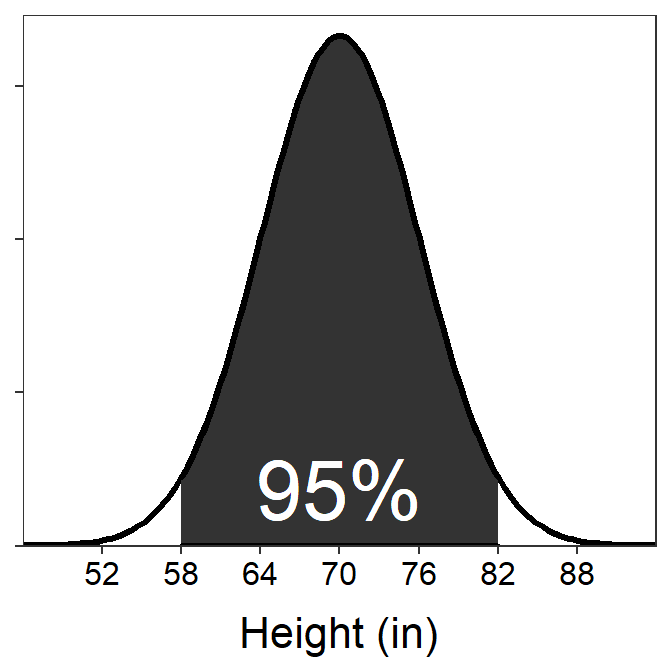
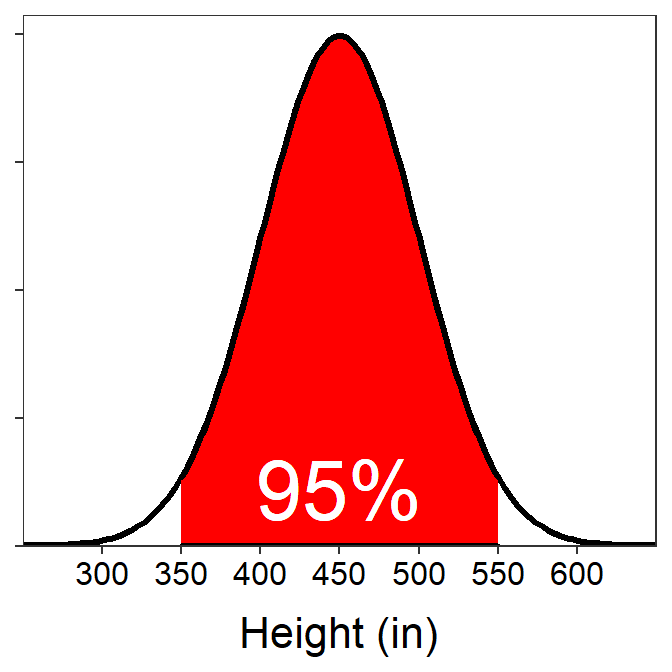
again

Changed region(s): [[0.2188, 0.0625, 0.7812, 0.875], [0.8125, 0.8125, 0.9062, 0.875], [0.125, 0.8125, 0.1875, 0.875]]

diff --git a/modules/CE/KEY_NormalDist1_CExmpl.html b/modules/CE/KEY_NormalDist1_CExmpl.html
@@ -19,7 +19,22 @@ This follows directly from the middle part of the 68-95-99.7% Rule because 350 i
 <p><img src="KEY_NormalDist1_CExmpl_files/figure-html/unnamed-chunk-4-1.png" width="336" /></p>
 </div>
 <p> </p>
-<p>{:start=“2”} 1. The percentage of wood ducks that weight more than 550 g is 2.5%.</p>
+<p>{:start=“2”}</p>
+<ol>
+<li>The percentage of wood ducks that weight more than 550 g is 2.5%.</li>
+</ol>
+<div class="alert alert-warning">
+<p>
+We see that 550 is exactly 2σ above μ. Thus, there is 95% between 350 (2σ below μ) and 550, 5% outside of that range, and 2.5% in each tail outside of that range. Thus, 2.5% are greater than 550.
+</p>
+<pre><code>Warning: Computation failed in `stat_function()`:
+&#39;from&#39; must be a finite number</code></pre>
+<pre><code>Warning: Computation failed in `stat_function()`:
+&#39;to&#39; must be a finite number</code></pre>
+<p><img src="KEY_NormalDist1_CExmpl_files/figure-html/unnamed-chunk-5-1.png" width="336" /></p>
+</div>
+<p> </p>
+<p>{:start=“3”} 1.</p>
 </div>
 
 
